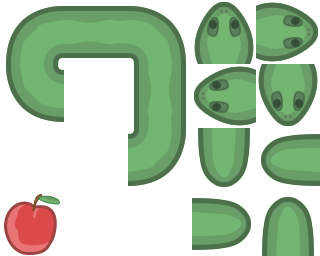
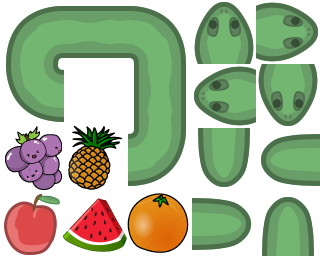
Added other fruit types

Changed region(s): [[0.1875, 0.75, 0.5938, 1.0], [0.0, 0.4688, 0.375, 0.75]]

diff --git a/src/app/+game/service/fruit.ts b/src/app/+game/service/fruit.ts
@@ -3,7 +3,11 @@
  */
 
 export enum FruitType {
-    Apple = 10
+    Apple = 10,
+    Grapes = 20,
+    Orange = 30,
+    Watermelon = 40,
+    Pineapple = 50,
 }
 
 export class Fruit {
